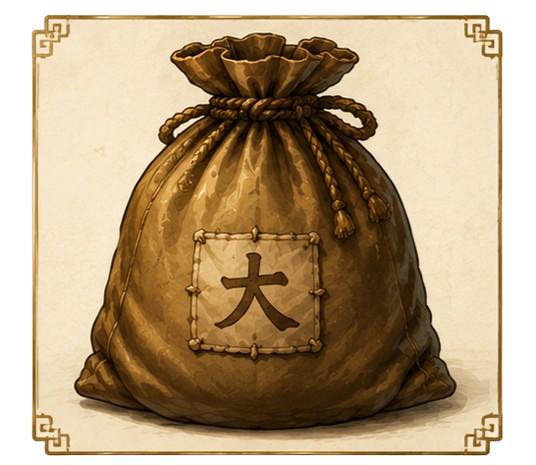
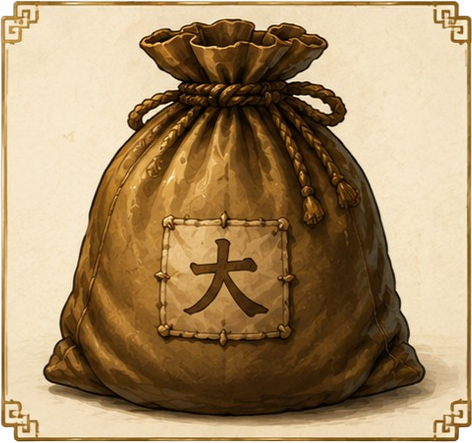
fix: small fixes for bird conversation flow and endings

diff --git a/test/widget_test.dart b/test/widget_test.dart
@@ -360,7 +360,9 @@ void main() {
     await tester.tap(find.byKey(const ValueKey('button_Tiếp tục câu chuyện')));
     await tester.pump();
 
-    expect(controller.view, AppView.collection);
+    expect(controller.view, AppView.story);
+    expect(controller.currentNodeId, 'enough_reflection');
+    expect(find.text('Hỏi Chim Thần'), findsOneWidget);
   });
 
   testWidgets('karma screen uses score-specific badge variants', (

diff --git a/lib/screens/bird/conversation_with_bird_screen.dart b/lib/screens/bird/conversation_with_bird_screen.dart
@@ -107,7 +107,7 @@ class _ConversationWithBirdScreenState
                     fontSize: layout.font(14),
                     assetName: 'buttons/unlock_button.png',
                     onPressed:
-                        widget.controller.continueBirdConversationToCollection,
+                        widget.controller.continueBirdConversationToKarma,
                   ),
                 ),
               ),

diff --git a/lib/controllers/game_controller.dart b/lib/controllers/game_controller.dart
@@ -170,10 +170,8 @@ class GameController extends ChangeNotifier {
     notifyListeners();
   }
 
-  void continueBirdConversationToCollection() {
-    _returnView = AppView.story;
-    view = AppView.collection;
-    collectionFilter = CollectionFilter.opened;
+  void continueBirdConversationToKarma() {
+    view = AppView.story;
     pauseVisible = false;
     notifyListeners();
   }

diff --git a/lib/repositories/story_repository.dart b/lib/repositories/story_repository.dart
@@ -436,7 +436,7 @@ class StoryRepository {
     ),
     'player_bad_ending': StoryNode(
       id: 'player_bad_ending',
-      title: 'Lòng tham của người em',
+      title: 'Lòng tham',
       type: StoryNodeType.firstEnding,
       background: 'backgrounds/011_player_bad_ending.png',
       text:

diff --git a/lib/widgets/story_dialogue_panel.dart b/lib/widgets/story_dialogue_panel.dart
@@ -26,7 +26,7 @@ class StoryDialoguePanel extends StatelessWidget {
         children: [
           Positioned(
             left: 24,
-            right: 40,
+            right: 24,
             top: 13,
             height: 179,
             child: FqaAssetImage(
